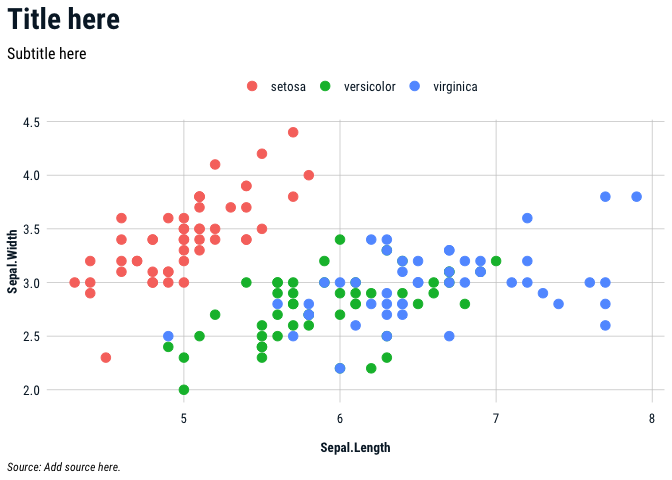
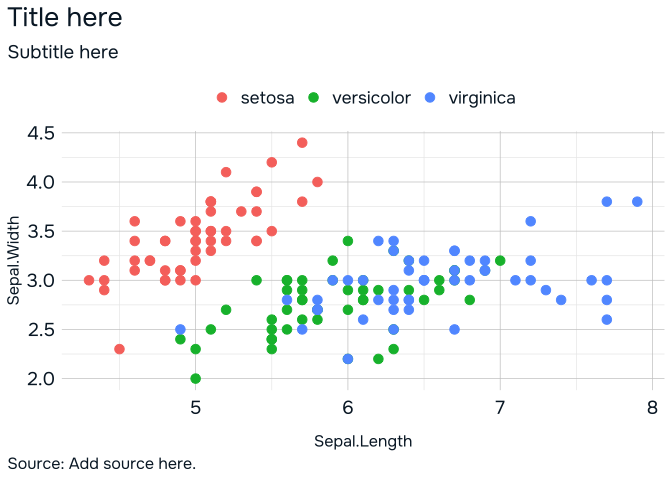
rebuild README with updated themes and palettes
- set pixel width and screenshot viewport on the highcharter chunk so webshot2 can render the widget into the gfm output
- regenerate ggplot and highcharter example figures to reflect the softened title, new discrete default palette, and horizontal gridlines

diff --git a/README.md b/README.md
@@ -18,30 +18,33 @@ You can install the development version from
 devtools::install_github("januaryadvisors/jastyle")
 ```
 
-## Check font
+## Font
 
-You need to have Roboto Condensed installed. Check your system to see if
-you do. If not, go here and download it
-[here](https://fonts.google.com/specimen/Roboto+Condensed).
+The package uses [Onest](https://fonts.google.com/specimen/Onest) as its
+base font. Onest is registered automatically on package load via
+`sysfonts::font_add_google("Onest")` and `showtext::showtext_auto()`, so
+no manual install is needed.
 
 ``` r
 library(jastyle)
 ja_font()
-#> [1] "Roboto Condensed"
+#> [1] "Onest"
 ```
 
 ## Use ggplot theme_ja()
 
 ``` r
 library(tidyverse)
-#> ── Attaching packages ─────────────────────────────────────── tidyverse 1.3.1 ──
-#> ✔ ggplot2 3.3.5     ✔ purrr   0.3.4
-#> ✔ tibble  3.1.8     ✔ dplyr   1.0.7
-#> ✔ tidyr   1.1.4     ✔ stringr 1.4.0
-#> ✔ readr   2.1.1     ✔ forcats 0.5.1
+#> ── Attaching core tidyverse packages ──────────────────────── tidyverse 2.0.0 ──
+#> ✔ dplyr     1.1.4     ✔ readr     2.1.5
+#> ✔ forcats   1.0.0     ✔ stringr   1.5.1
+#> ✔ ggplot2   3.5.2     ✔ tibble    3.2.1
+#> ✔ lubridate 1.9.3     ✔ tidyr     1.3.1
+#> ✔ purrr     1.2.0     
 #> ── Conflicts ────────────────────────────────────────── tidyverse_conflicts() ──
 #> ✖ dplyr::filter() masks stats::filter()
 #> ✖ dplyr::lag()    masks stats::lag()
+#> ℹ Use the conflicted package (<http://conflicted.r-lib.org/>) to force all conflicts to become errors
 ggplot(iris) +
   geom_point(aes(x=Sepal.Length, y=Sepal.Width, color=Species), size=3) +
   ggtitle("Title here", subtitle = "Subtitle here") +
@@ -58,16 +61,14 @@ library(highcharter)
 #> Registered S3 method overwritten by 'quantmod':
 #>   method            from
 #>   as.zoo.data.frame zoo
-#> Highcharts (www.highcharts.com) is a Highsoft software product which is
-#> not free for commercial and Governmental use
-highcharter::hchart(iris, "scatter", hcaes(Sepal.Length, Sepal.Width, color=Species)) %>% 
-  hc_title(text = "Title here") %>% 
-  hc_subtitle(text = "Subtitle here.") %>% 
-  hc_caption(text = "<strong>Source</strong>: Source here.") %>% 
+highcharter::hchart(iris, "scatter", hcaes(Sepal.Length, Sepal.Width, color=Species)) %>%
+  hc_title(text = "Title here") %>%
+  hc_subtitle(text = "Subtitle here.") %>%
+  hc_caption(text = "<strong>Source</strong>: Source here.") %>%
   hc_add_theme(ja_hc_theme())
 ```
 
-<img src="man/figures/README-unnamed-chunk-2-1.png" width="100%" />
+<img src="man/figures/README-unnamed-chunk-2-1.png" width="800" />
 
 ## Custom ja_colors
 